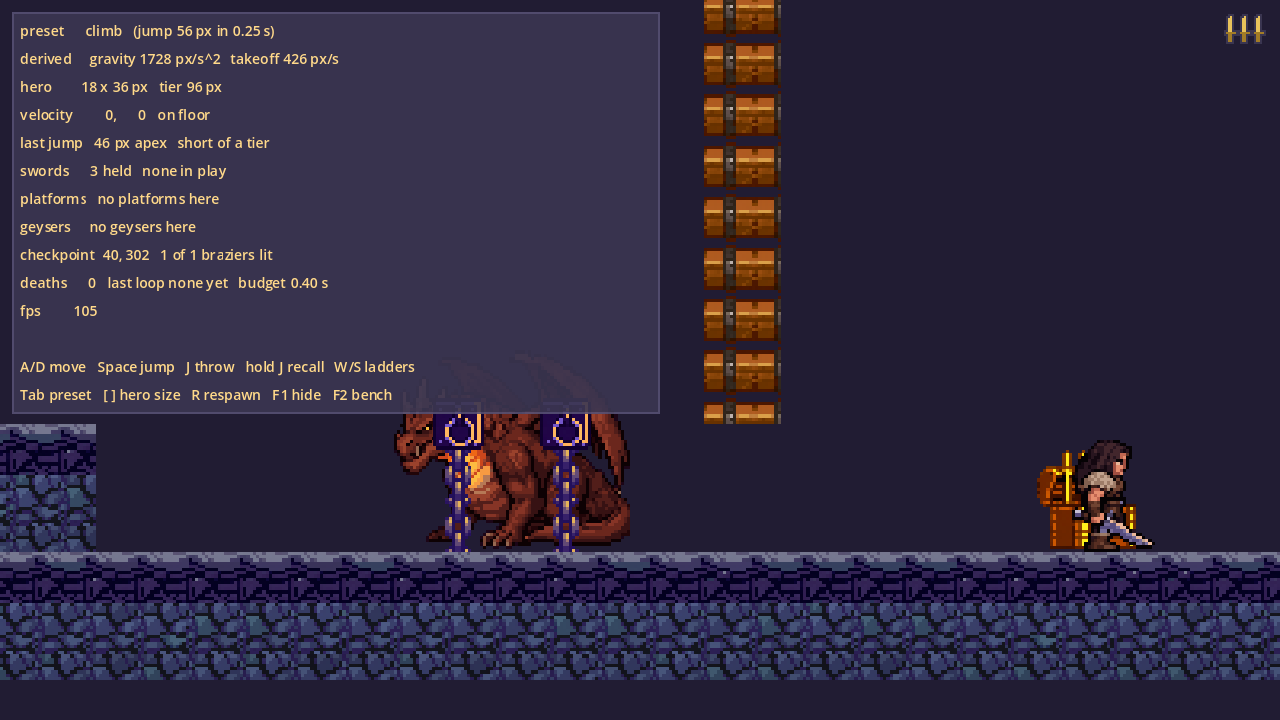
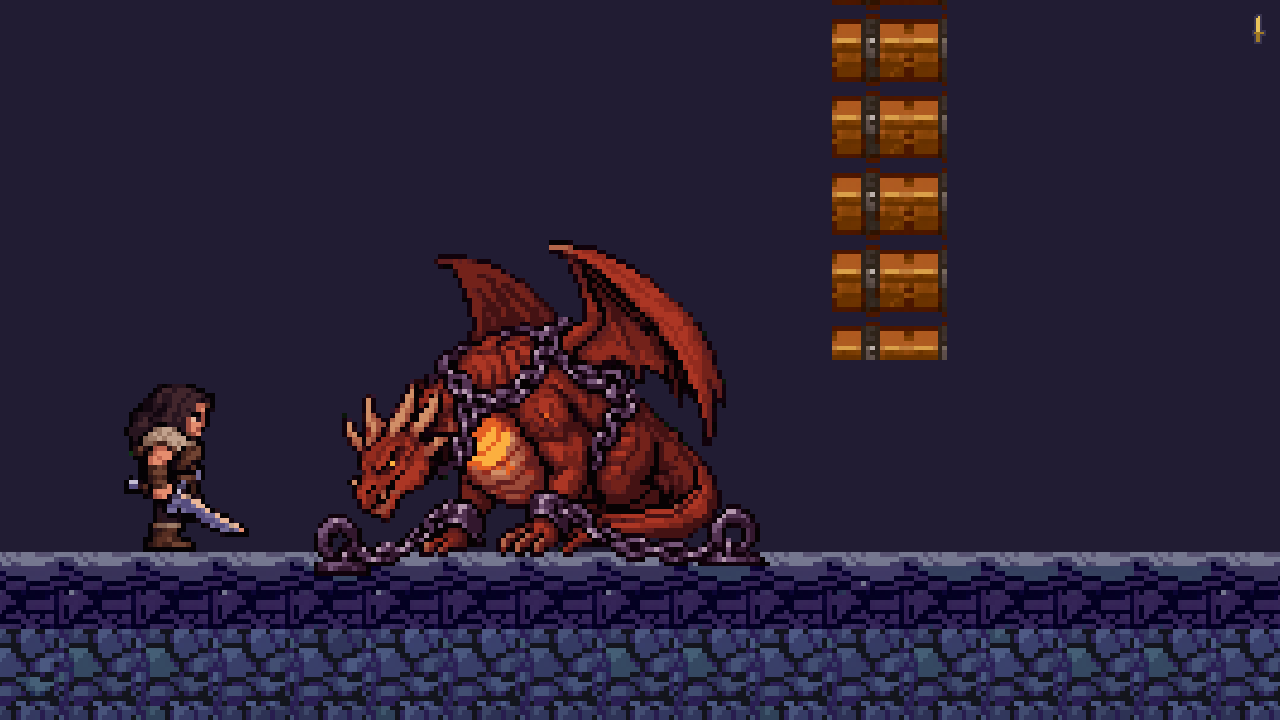
Chained dragon art: generated, animated and wired
An edit of the dragon still into a chained pose (head dragged low, chains
over its back, rings in the floor) and a 4-frame animate of it straining, 30
credits, 735 left. Filmstripped before use: no boil, feet and rings hold.

The dragon sprite gains a chained state in its AnimationTree, with its own
frame offset since the frames are 95x70, keeping the feet on the floor line.
Dragon._defeat travels to it; the code-drawn chains are gone. The five dragon
scenarios, bench and lair, all pass.

GEMINI_NOTES: edit came back 80x68 and 95x70 from a 74x74 input, so size
holding is likely, not given.

Claude-Session: https://claude.ai/code/session_01WrcoPQsHLoeitUbxtfiPaC

diff --git a/HANDOFF.md b/HANDOFF.md
@@ -10,7 +10,7 @@ beatable without spending a sword on it (`BUILD_PLAN.md`).
 
 ## Where this is
 
-**Credits: 765.** Random HTTP 403s cost nothing; retry once.
+**Credits: 735.** Random HTTP 403s cost nothing; retry once.
 Spend in small batches, each looked at before the next (`ART.md` → *What is
 left to generate*). Enemies and characters wait on `RoomM7Sheet`'s verdict.
 
@@ -27,8 +27,8 @@ right, in every room.
 ## The next action
 
 **All six Act 2 rooms built and connected,** ending in `Act2Lair`, where a
-recall overpowers the dragon and chains it (`Dragon._defeat`), costing no
-sword. M11's done-when is met in CI; feel waits on Matt's play. **Act 2 needs a painted background** (Matt, Gemini);
+recall overpowers the dragon and chains it (`Dragon._defeat`, generated
+chained art), costing no sword. M11's done-when is met in CI; feel waits on Matt's play. **Act 2 needs a painted background** (Matt, Gemini);
 until then its rooms show a plain backdrop under a rock ceiling.
 
 ## Blocked on Matt

diff --git a/ART.md b/ART.md
@@ -261,6 +261,15 @@ through `ActTiles` (`assets/art/act2/act2_tiles.tres`). Contact sheet:
 **Act 2 has no background.** It is painted in Gemini and pixelated (*Four
 layers*), which is Matt's time, not credits.
 
+## The chained dragon (2026-10-03)
+
+Two requests, 30 credits: an `edit` of `enemies/dragon_px.png` into a chained
+pose (pick 1 of 2: head dragged low, chains over its back, rings in the floor),
+then a 4-frame `animate` of it straining (`enemies/dragon_chained_sheet.png`,
+95x70 a frame; filmstripped, no boil). The `chained` state of
+`scenes/dragon_sprite.tscn`, reached from `Dragon._defeat` through the
+AnimationTree. In the lair: `_experiments/act2_lair_chained.png`.
+
 ## M9: lava, electricity and atmosphere (2026-09-28)
 
 **Nothing here is generated: no credits, no PNG.** Taken while credits were 0

diff --git a/GEMINI_NOTES.md b/GEMINI_NOTES.md
@@ -323,3 +323,7 @@ came back as a full flip: spring, tuck, inverted, tumble, open. Frame 0 is still
 the input pose, and the tucked frames stay inside the 36 px canvas because the
 still was compact.
 
+**`edit` does not reliably hold size after all (2026-10-03, later).** Two edits
+of the 74x74 dragon came back 80x68 and 95x70, where the morning's re-test had
+both edits keep the input's size. Treat a size-held edit as likely, not given:
+measure every delivery, and budget for a sprite of its own size when it moves.
